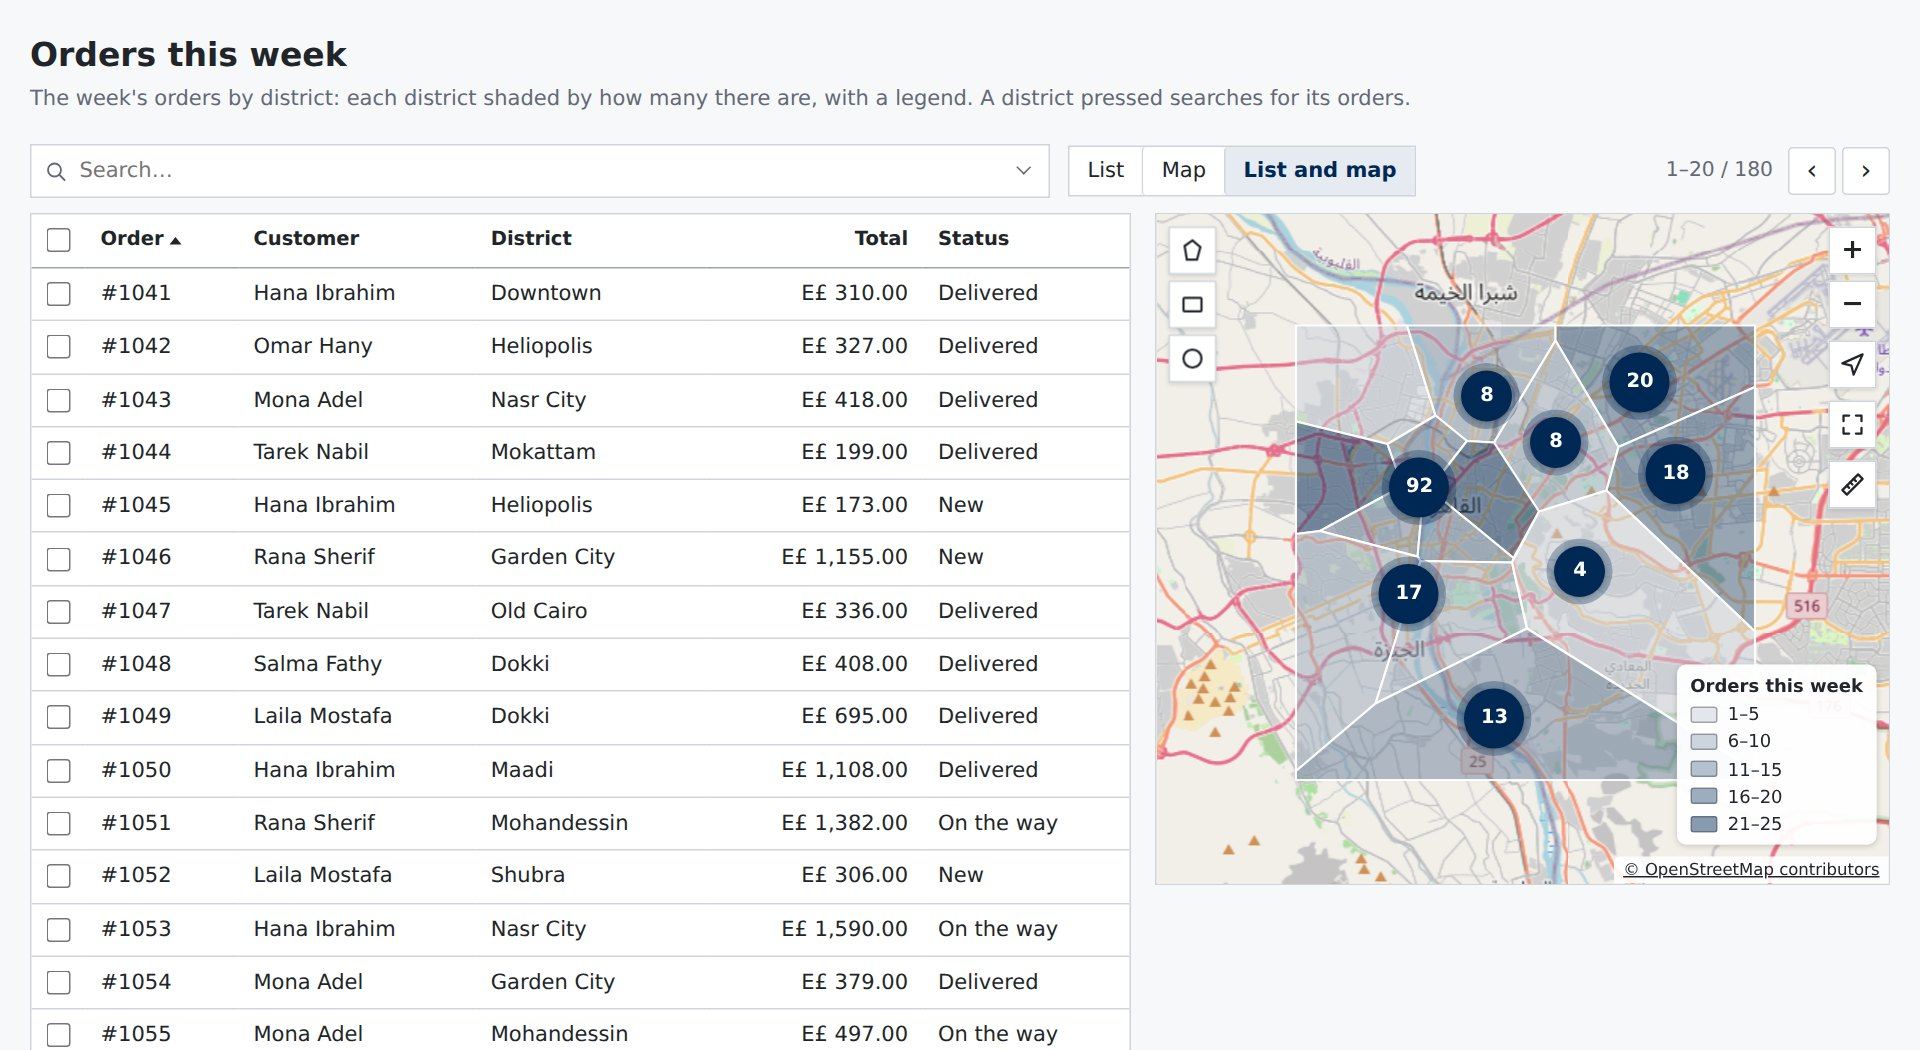
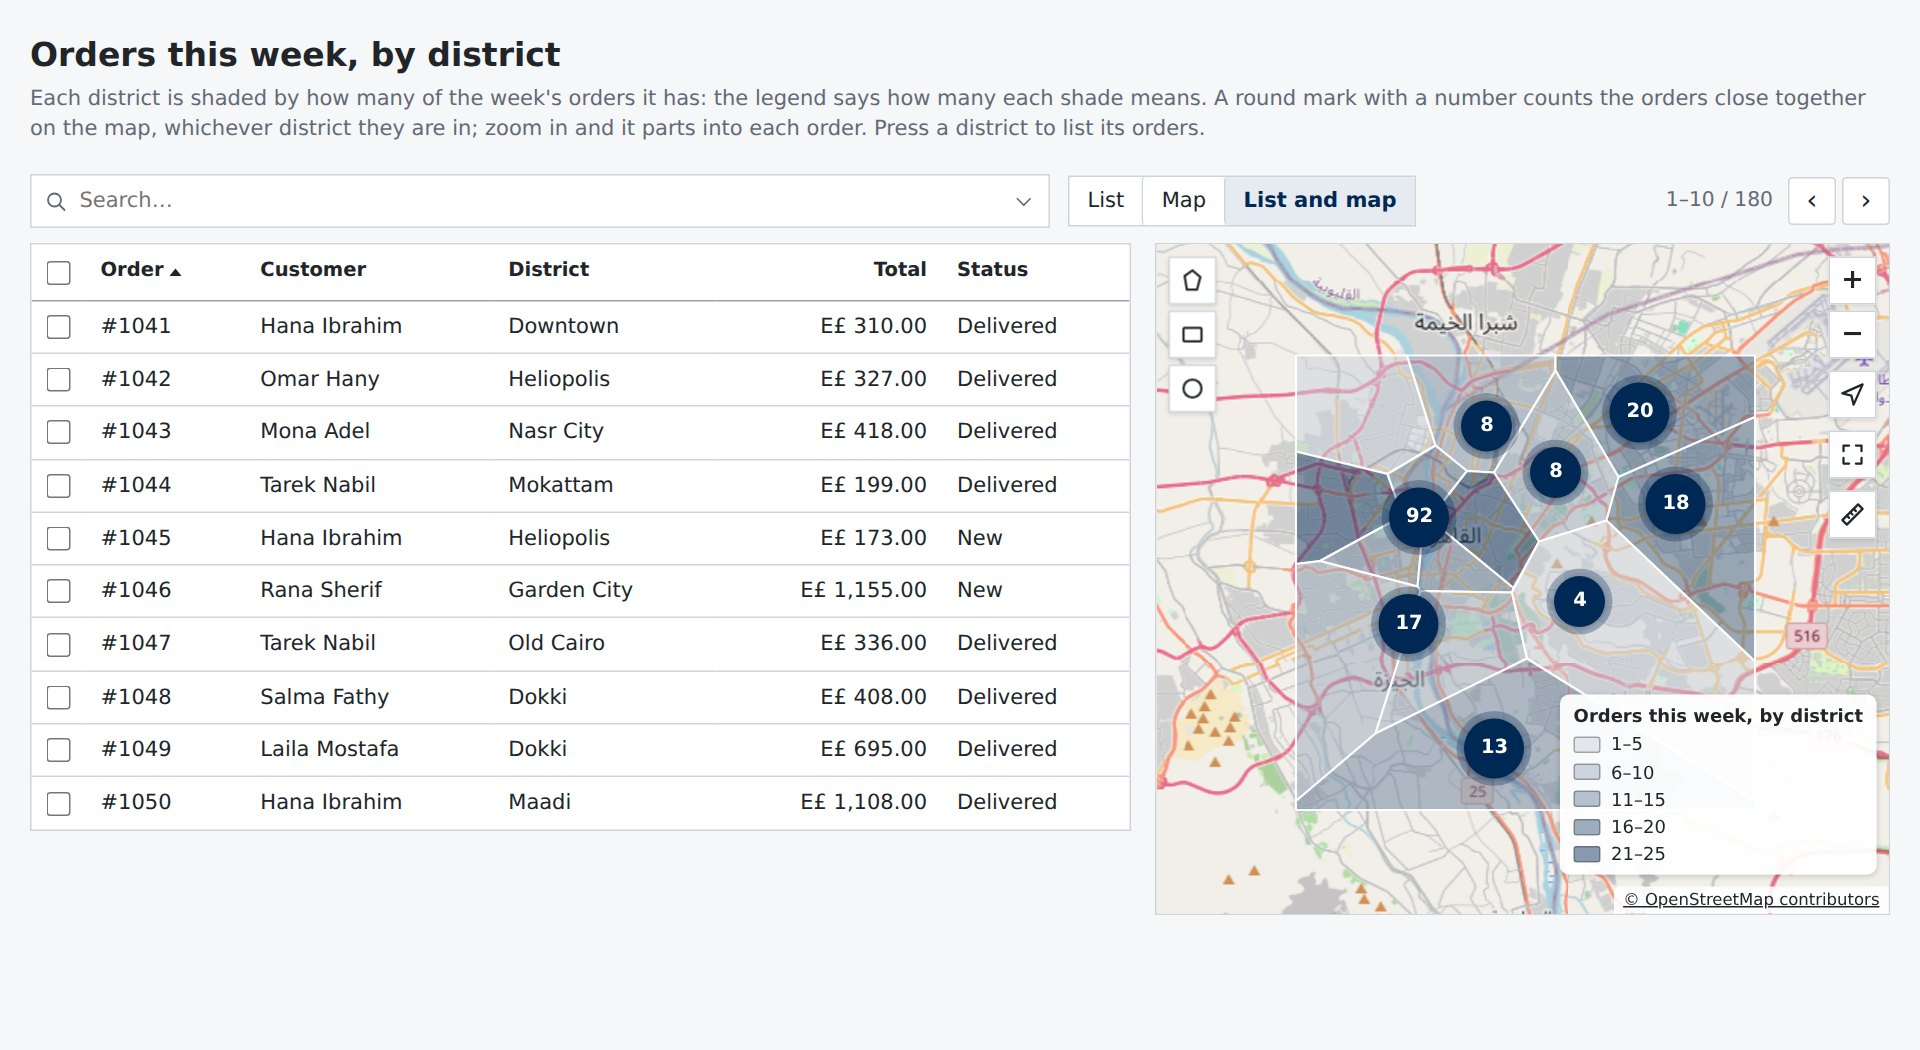
maps: districts' legend and bubbles each say what they count

diff --git a/e2e/map-areas.spec.ts b/e2e/map-areas.spec.ts
@@ -59,7 +59,10 @@ test.describe('orders by district', () => {
     await openMap(page, ZONES);
     await expect(regions(page)).toHaveCount(14);
     await expect(legend(page)).toBeVisible();
-    await expect(legend(page).locator('.fd-map-legend-title')).toHaveText('Orders this week');
+    // The legend says what it counts — the week's orders in each district — and the page what a bubble counts: orders
+    // close together on the map, whichever district they are in. Two measures, each said, never taken for the other.
+    await expect(legend(page).locator('.fd-map-legend-title')).toHaveText('Orders this week, by district');
+    await expect(page.locator('.fd-page-description, .fd-page-head').first()).toContainText('counts the orders close together on the map, whichever district they are in');
     // Counts step by whole numbers, from 1: "1–5", "6–10"…
     const steps = await legend(page).locator('li').allTextContents();
     expect(steps[0]).toMatch(/^1–\d+$/);
@@ -115,7 +118,7 @@ test.describe('orders by district', () => {
     await page.keyboard.press('Tab');
     const focused = page.locator('path.fd-map-region:focus');
     await expect(focused).toHaveCount(1);
-    await expect(focused).toHaveAttribute('aria-label', /^[A-Z][a-z ]+: \d+ · Orders this week$/);
+    await expect(focused).toHaveAttribute('aria-label', /^[A-Z][a-z ]+: \d+ · Orders this week, by district$/);
     // Its words shown as the pointer would show them.
     await expect(page.locator('.leaflet-tooltip.fd-map-tip')).toBeVisible();
     const first = (await focused.getAttribute('aria-label'))!;
